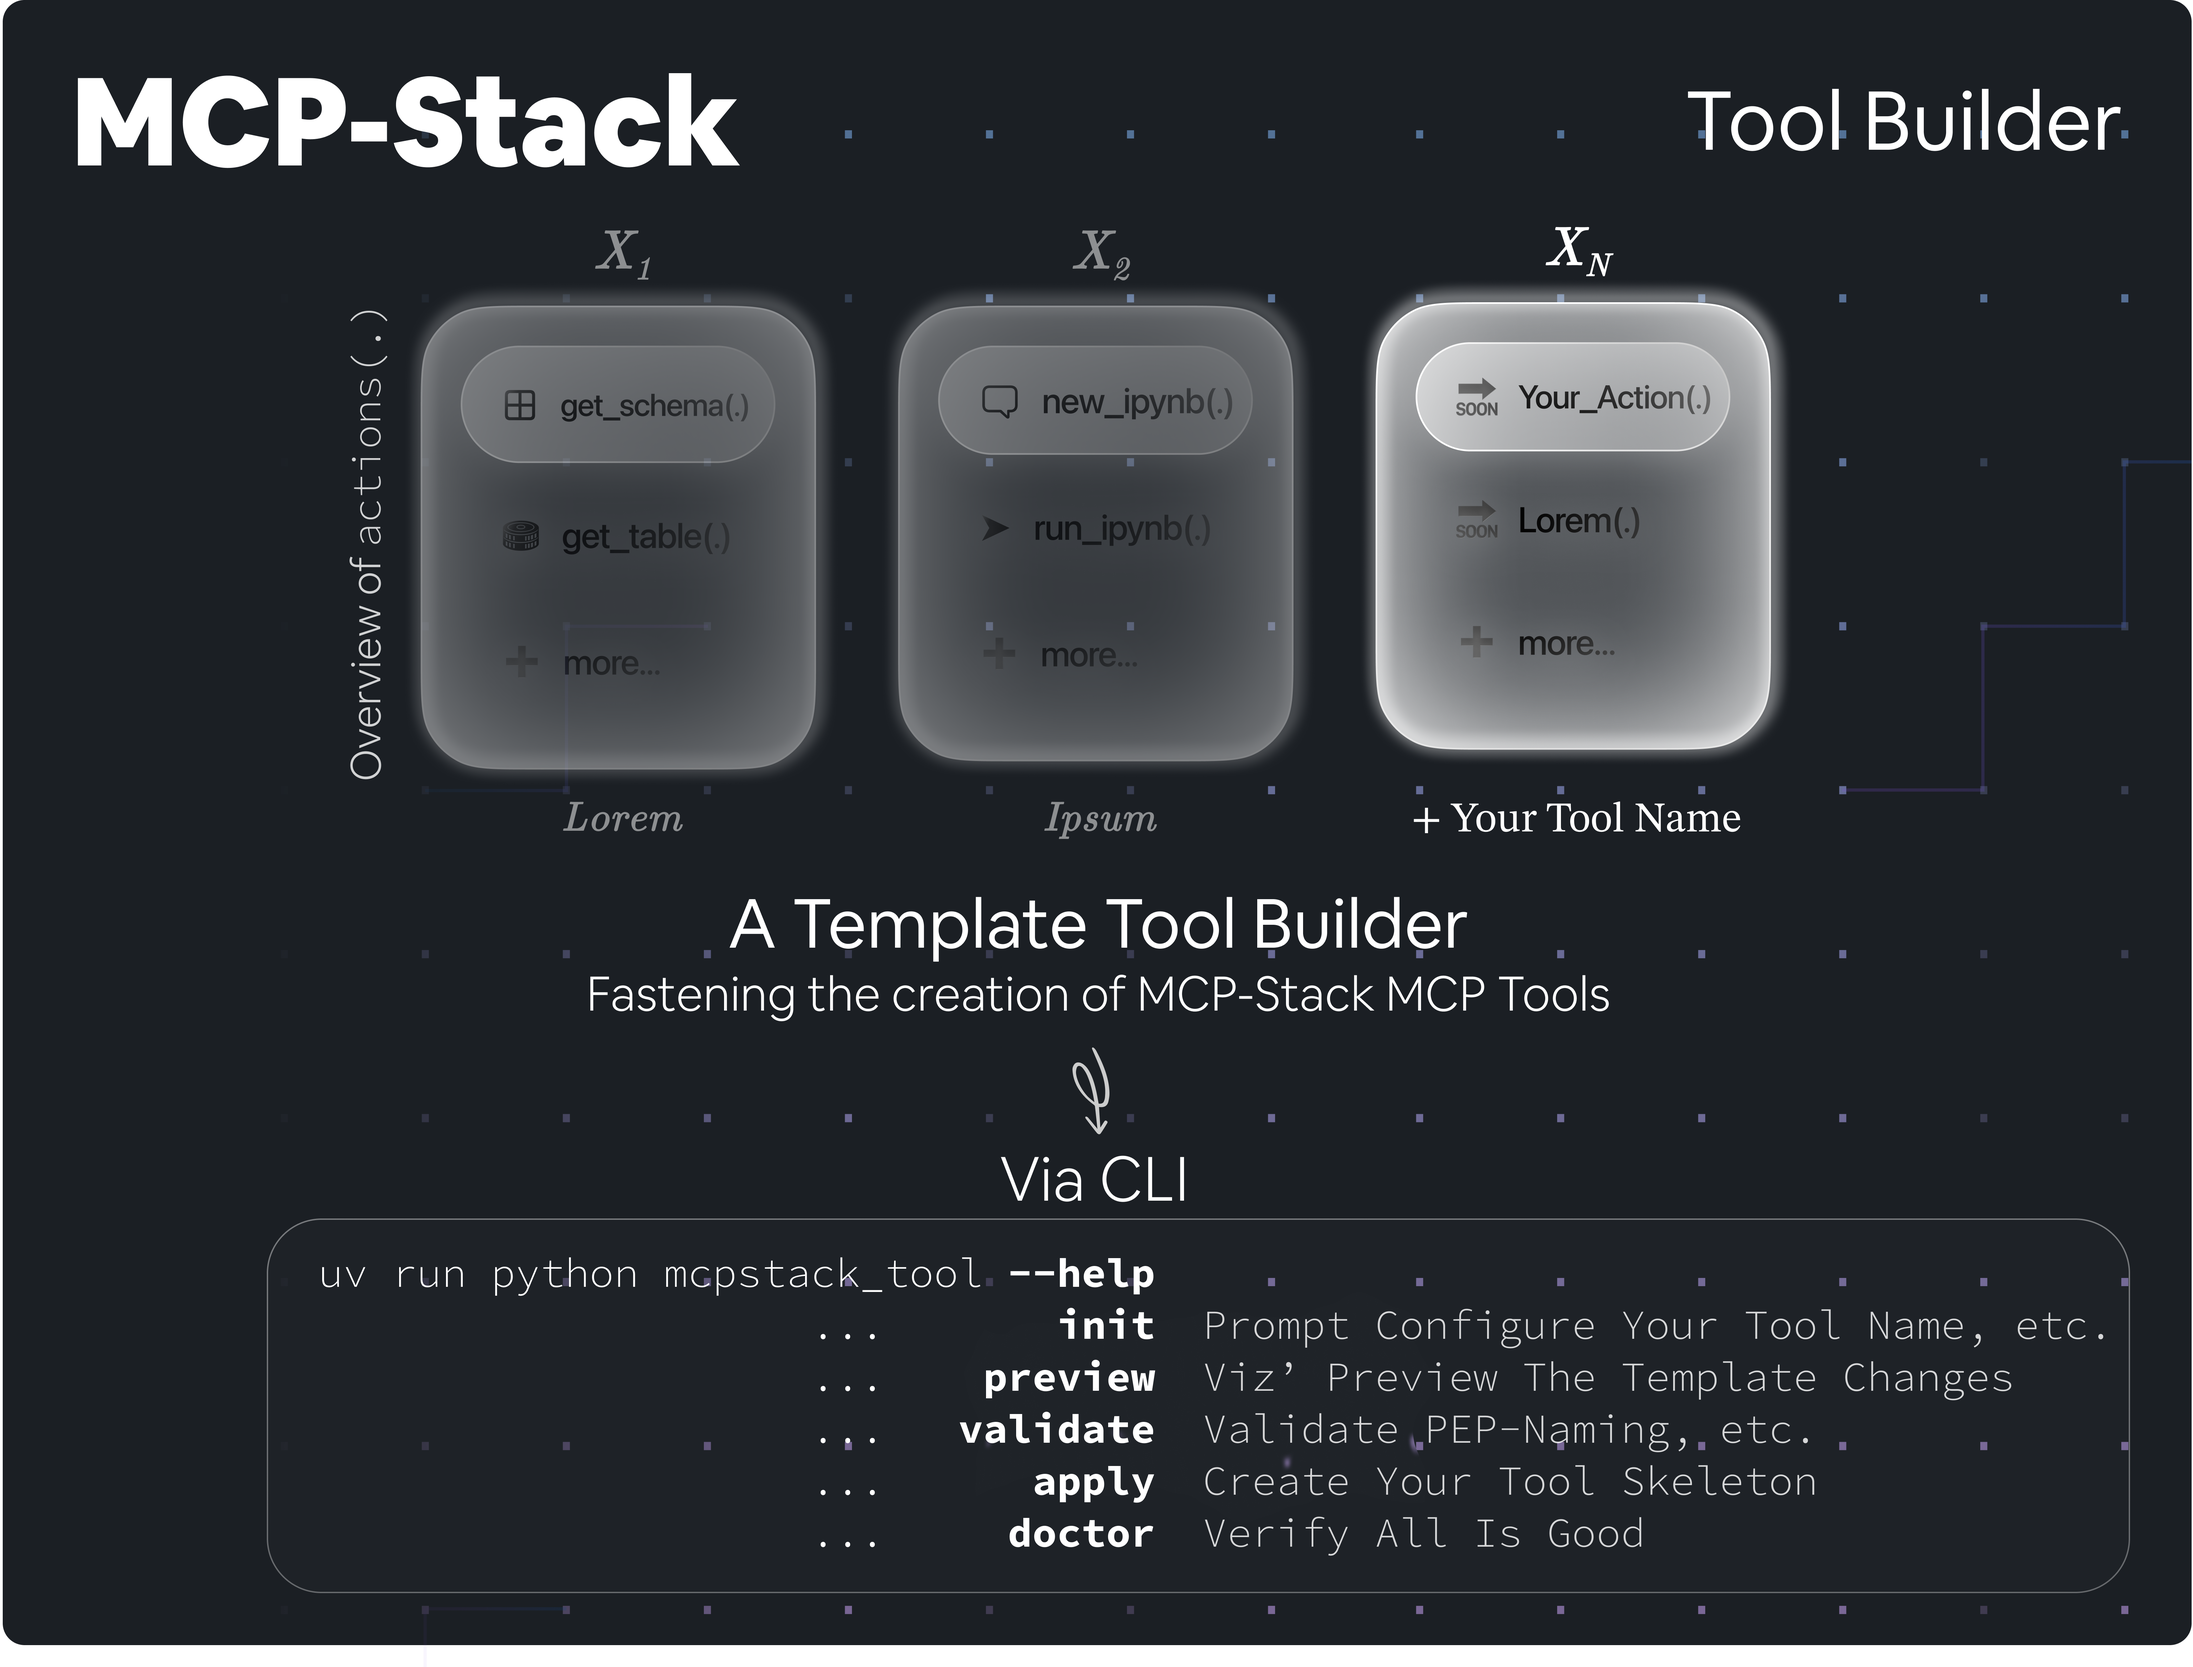
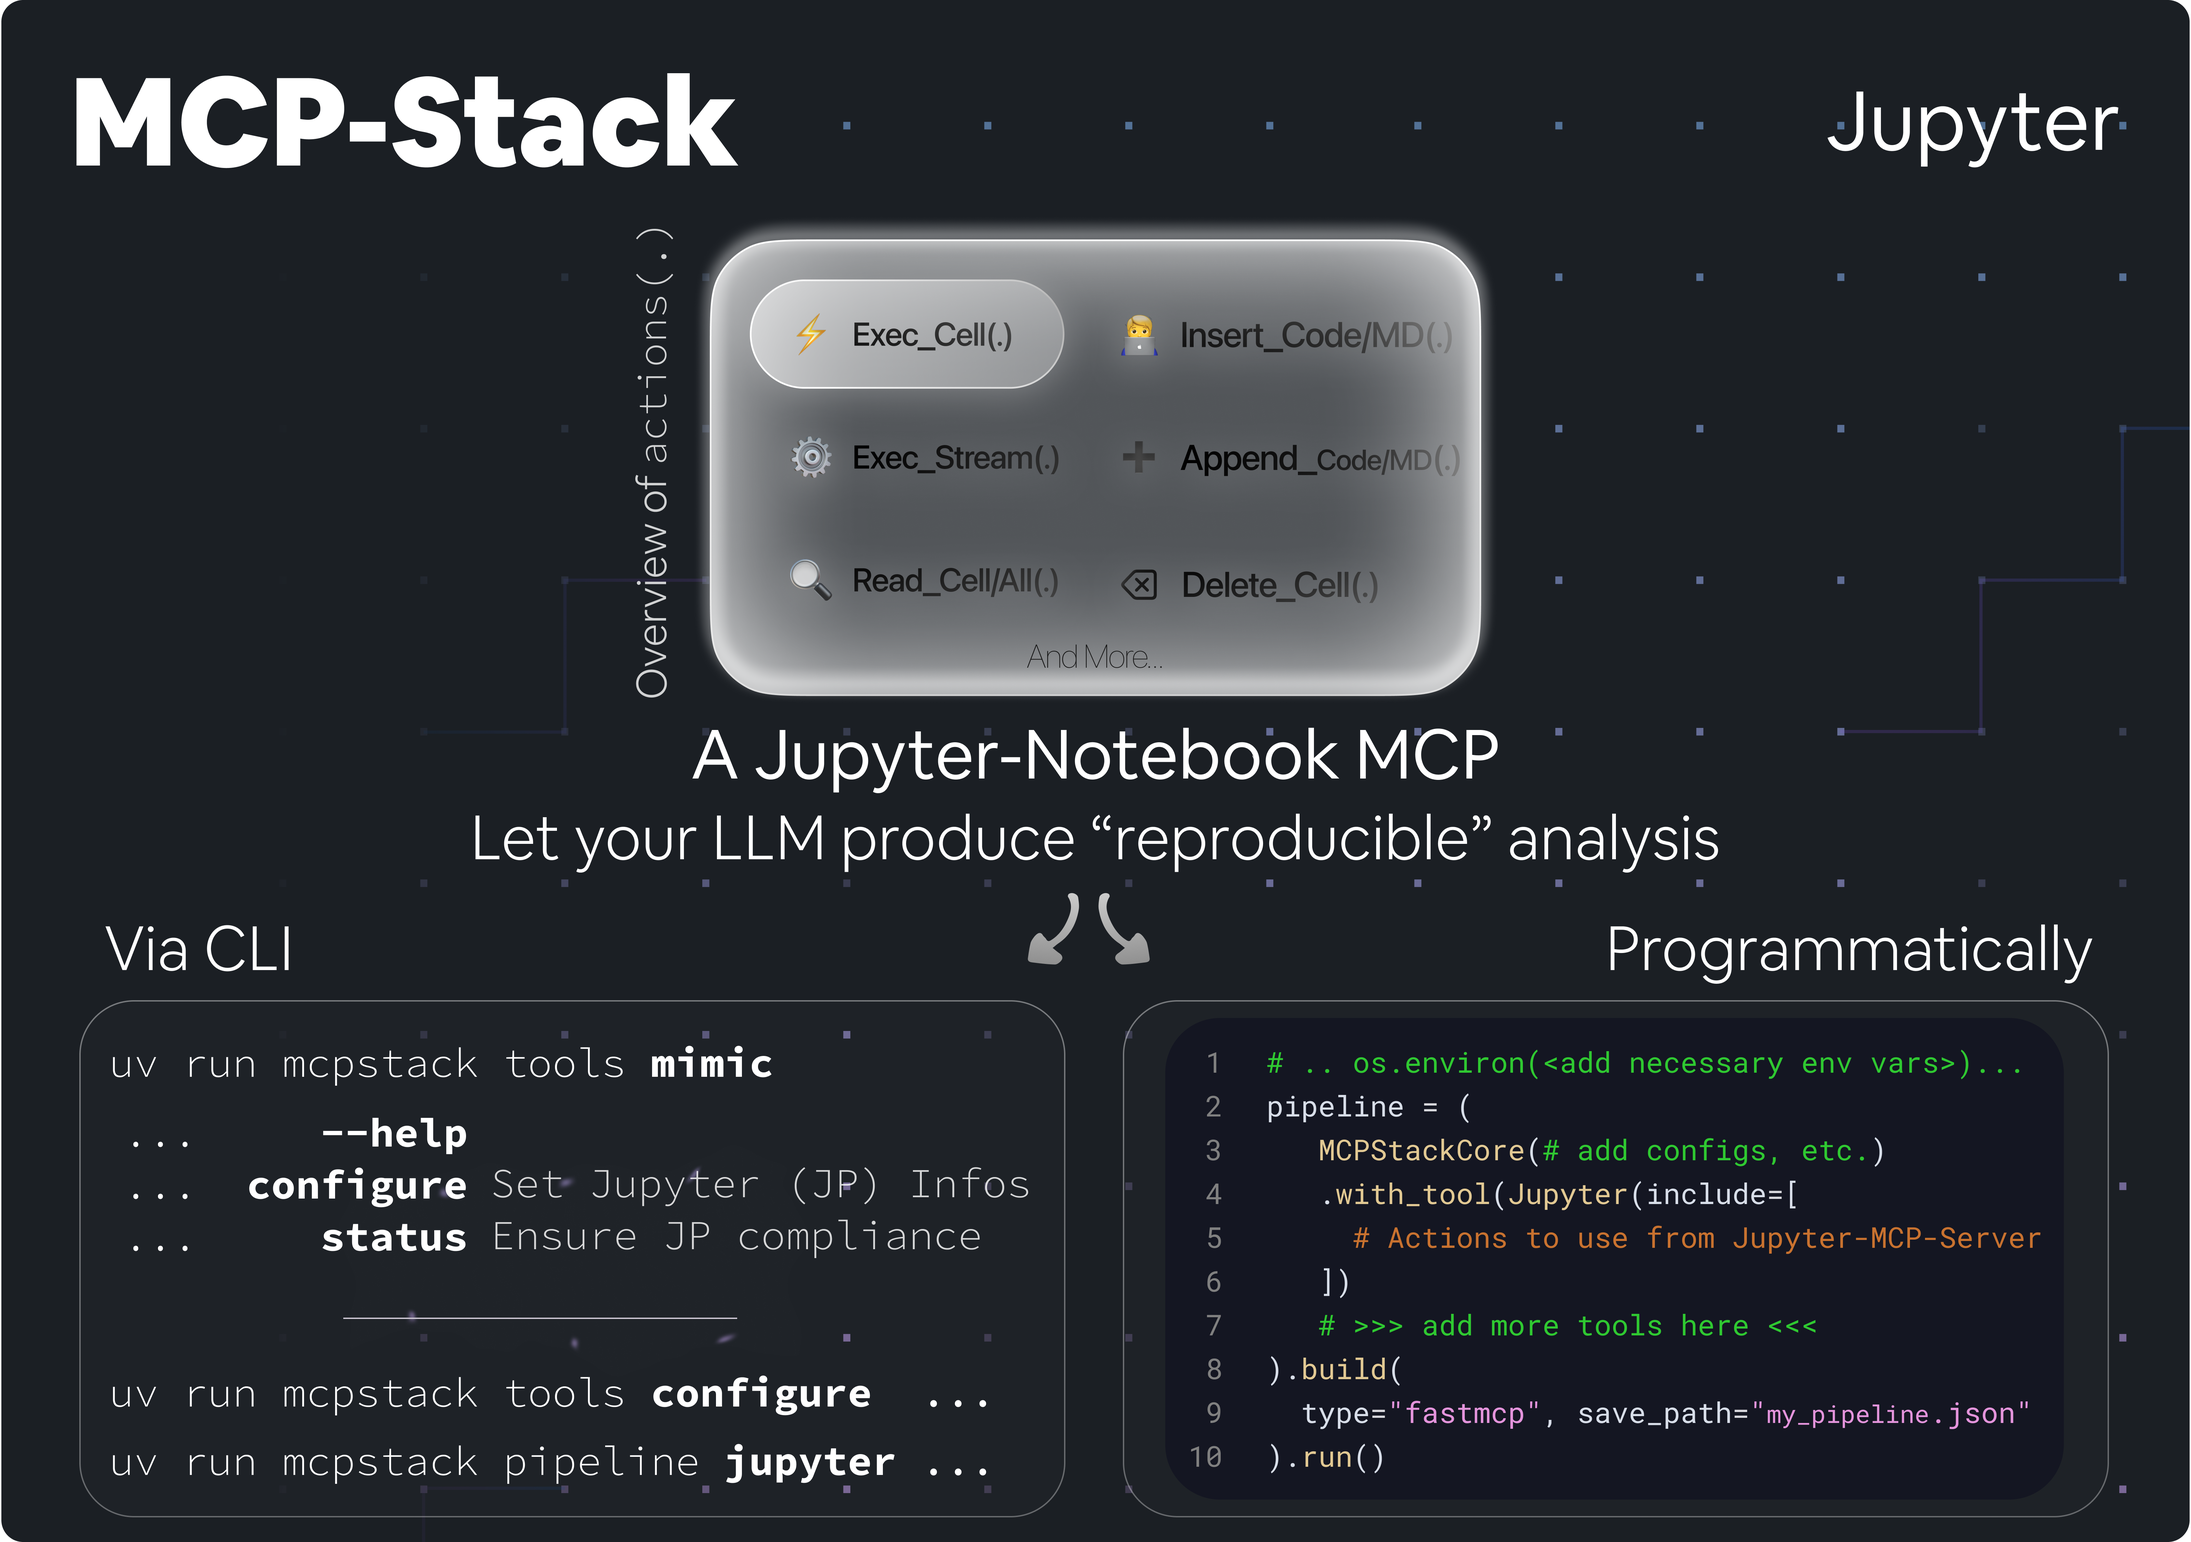
refactor(docs): add readme

diff --git a/README.md b/README.md
@@ -4,10 +4,10 @@
     <br>
     <a href="#"><img src="assets/COVER.png" alt="MCPStack Tool" width="100%"></a>
     <br>
-    MCPStack Tool Builder
+    MCPStack Jupyter MCP
     <br>
   </h1>
-  <h4 align="center">A Template To Fasten The Creation of MCP-Stack MCP Tools</h4>
+  <h4 align="center">Operate Jupyter Notebooks from your favourite LLM</h4>
 </div>
 
 <div align="center">
@@ -16,167 +16,225 @@
   <img alt="pre-commit" src="https://img.shields.io/badge/pre--commit-enabled-1f6feb?style=for-the-badge&logo=pre-commit">
 </a>
 <img alt="ruff" src="https://img.shields.io/badge/Ruff-lint%2Fformat-9C27B0?style=for-the-badge&logo=ruff&logoColor=white">
-<img alt="python" src="https://img.shields.io/badge/Python-3.9%2B-3776AB?style=for-the-badge&logo=python&logoColor=white">
+<img alt="python" src="https://img.shields.io/badge/Python-3.10%2B-3776AB?style=for-the-badge&logo=python&logoColor=white">
 <img alt="license" src="https://img.shields.io/badge/License-MIT-success?style=for-the-badge">
 
 </div>
 
 > [!IMPORTANT]
-> If you have not been across the MCPStack main orchestrator repository, please start
-> there: [View Org](https://github.com/MCP-Pipeline)
+> If you haven’t visited the MCPStack main orchestrator repository yet, please start
+> there: **[MCPStack](https://github.com/MCP-Pipeline/MCPStack)**
 
-## <a id="about-the-project"></a>💡 About The Project
+## 💡 About The MCPStack Jupyter Tool
 
-`MCPStack Tool Builder` is a template repository designed to streamline the creation of `MCPStack` MCP Tools.
-As in, you are using the `MCPStack` main orchestrator repository and wish to create a new MCP tool to pipeline with.
-You can always start from scratch, but certainly, our `MCPStack Tool Builder` will help you get started quickly with a
-solid foundational skeleton builder.
+This repository provides an **MCPStack tool that wraps the official Python Jupyter MCP Server** — it is **not** a novel MCP by itself.
 
-**Wait, what is a Model Context Protocol (MCP) & `MCPStack` — In layman's terms ?**
+- Upstream project: [datalayer/jupyter-mcp-server](https://github.com/datalayer/jupyter-mcp-server)
+- We **reuse their MCP actions** and surface them through **MCPStack**.
+- As the upstream evolves, **some actions / endpoints may deprecate**. Our wrapper is intentionally lightweight, so updating to new upstream versions should be straightforward.  
+  If you hit an incompatibility, **please open an issue** and we’ll track an update to align with the Jupyter MCP Server.
 
-The Model Context Protocol (MCP) standardises interactions with machine learning (Large Language) models,
-enabling tools and libraries to communicate successfully with a uniform workflow.
+### What is MCPStack, in layman’s terms?
 
-On the other hand, `MCPStack` is a framework that implements the protocol, and most importantly, allowing
-developers to create pipelines by stacking MCP tools of interest and launching them all in Claude Desktop.
-This allows the LLM to use all the tools stacked, and of course, if a tool is not of interest, do not include it in the
-pipeline and the LLM won't have access to it.
+The **Model Context Protocol (MCP)** standardises how tools talk to LLMs.  
+`MCPStack` lets you **stack multiple MCP tools together** into a pipeline and expose them to an LLM host (e.g., Claude Desktop).
+
+Think **scikit-learn pipelines, but for LLM tooling**:
+- In scikit-learn: you chain `preprocessors` → `transformers` → `estimators`.
+- In MCPStack: you chain multiple MCP tools (Jupyter, MIMIC, …) and the LLM can use all of them during a conversation.
+
+---
 
 ## Installation
 
-> [!NOTE]
-> As this repository is a template, you can always create a new repository from this template. Use
-> the "Use this template" button on the top right of the GitHub UI to create a new repository based on this template.
+The tool is distributed as a standard Python package. Thanks to entry points, MCPStack will auto-discover it.
 
-Meanwhile, you may alos clone this repository and install it locally to start building your own `MStack` MCP tool.
-
-### Clone the repository
+### Via `uv` (recommended)
 
 ```bash
-git clone https://github.com/MCP-Pipeline/MCPStack-Tool-Builder.git
-cd MCPStack-Tool-Builder
+uv add mcpstack-jupyter
 ```
 
-### Install dependencies
-
-Using `UV` (recommended —— See official [UV documentation for installation of UV](https://uv.dev/docs/)):
+### Via `pip`
 
 ```bash
-uv sync
+pip install mcpstack-jupyter
 ```
 
-Using `pip`:
-
-```bash
-pip install -e .[dev]
-```
-
-### Install pre-commit hooks
-
-Via `UV`:
+### (Dev) Pre-commit hooks
 
 ```bash
 uv run pre-commit install
+# or: pre-commit install
 ```
 
-Via `pip`:
+---
+
+## 🔌 Using With MCPStack
+
+This tool declares entry points so MCPStack can see it automatically:
+
+```toml
+[project.entry-points."mcpstack.tools"]
+jupyter = "mcpstack_jupyter.tools.jupyter.jupyter:Jupyter"
+
+[project.entry-points."mcpstack.tool_clis"]
+jupyter = "mcpstack_jupyter.tools.jupyter.cli:JupyterCLI.get_app"
+```
+
+### 1) Run Jupyter with a Token
+
+You **must** run a Jupyter Server/Lab **with a token** (the same token will be used by both the document and runtime APIs).
 
 ```bash
-pre-commit install
+uv run jupyter lab \
+  --port 8888 \
+  --IdentityProvider.token MY_TOKEN \
+  --ip 0.0.0.0
+
+# MY_TOKEN can for instance be: 1117bf468693444a5608e882ab3b55d511f354a175a0df02
 ```
 
-## Create Your Tool's Skeleton
+> [!NOTE]
+> Docs reference: https://jupyter-mcp-server.datalayer.tech/jupyter/  
 
-Once dependencies are installed, you can use the `mcpstack_tool` CLI to bootstrap and customise your tool’s skeleton.
-Every commands is run with `uv run mcpstack_tool.py` or `python mcpstack_tool.py` if you are not using `UV`, followed by the command you want to run; as follows:
+Make sure to have a notebook open in Jupyter lab, e.g., `notebook.ipynb` or whatever you have defined in the configuration.
 
-<img src="assets/readme/help.gif" width="61.8%" align="left" style="border-radius: 10px;"/>
+### 2) Configure the Jupyter tool (set the token)
 
-### `Help` Banner
-
-Run with `--help` or `-h` to display the banner and see all available commands.
+Use the tool’s CLI to create a small `MCPStack ToolConfig` JSON. **At minimum pass `--token`**:
 
 ```bash
-uv run mcpstack_tool.py --help
+uv run mcpstack tools jupyter configure \
+  --token MY_TOKEN \
+  --output jupyter_config.json
+  
+# MY_TOKEN can for instance be: 1117bf468693444a5608e882ab3b55d511f354a1750df02 (must match the Jupyter server token)
 ```
 
-<br clear="left">
+The CLI has sensible defaults:
 
-<br />
+- `DOCUMENT_URL`: `http://127.0.0.1:8888`
+- `DOCUMENT_ID`: `notebook.ipynb` <-- Feel free to change this to any of your notebooks.
+- `RUNTIME_URL`: defaults to `DOCUMENT_URL`
 
-<img src="assets/readme/init.gif" width="61.8%" align="right" style="border-radius: 10px;"/>
+You can override those if needed:
 
-### `Init`
+```bash
+uv run mcpstack tools jupyter configure \
+  --document-url http://127.0.0.1:8888 \
+  --document-id Untitled.ipynb \
+  --runtime-url  http://127.0.0.1:8888 \
+  --token        1117bf468693444a5608e882ab3b55d511f354a1750df02 \
+  --output       jupyter_config.json
+```
 
-init starts an interactive prompt command-line-based process to generate your tool configuration.
-It will ask you for values like `tool_slug`, `class_name`, and `env_prefix`.
+### 3) Compose a pipeline
 
+Create a new pipeline (or append to an existing one) and include your Jupyter ToolConfig:
 
-<br clear="right">
+```bash
+# New pipeline
+uv run mcpstack pipeline jupyter --new-pipeline my_pipeline.json --tool-config jupyter_config.json
 
-<br />
+# Or append to an existing pipeline
+uv run mcpstack pipeline jupyter --to-pipeline my_pipeline.json --tool-config jupyter_config.json
+```
 
-<img src="assets/readme/preview.gif" width="61.8%" align="left" style="border-radius: 10px;"/>
+### 4) Run it inside Claude Desktop (or your host)
 
-### `Preview`
+```bash
+uv run mcpstack build --pipeline my_pipeline.json --config-type claude
+```
 
-preview shows you the replacements that would be applied across the codebase and displays an example diff.
-Note this could be also run from the `init`.
+Now ask the LLM to operate the notebook. A quick smoke test:
 
-<br clear="left">
+> “Append a code cell that prints `Hello World`.”
 
-<br />
+If everything’s wired correctly, you should see the new cell appear and execute in Jupyter Lab.
 
-<img src="assets/readme/apply.gif" width="61.8%" align="right" style="border-radius: 10px;"/>
+---
 
-### `Apply`
+## ⚙ Configuration — YAML (Developers)
 
-Once happy, use apply to perform replacements and rename the package directory. Note this could be also run from the `init`.
+This tool ships with YAML configs under `src/mcpstack_jupyter/configuration/`:
 
-<br clear="right">
+- `env_defaults.yaml` — defaults for provider/URLs/IDs and a `require_tokens` flag (we keep tokens **required**).
+- `tools.yaml` — the list of upstream actions we expose by default. Adjust here as upstream evolves.
+- `cli_defaults.yaml` — prompt labels and default output filename for the CLI.
 
-<br />
+You can tweak those YAML files to change defaults globally without touching code.
+Tokens remain **required** and are enforced upfront by MCPStack when building the tool.
 
-<img src="assets/readme/validate.gif" width="61.8%" align="left" style="border-radius: 10px;"/>
+---
 
-### `Validate`
+## 📖 Programmatic API
 
-Run validate to ensure placeholders were replaced correctly (or to check if any remain).
+Use the `Jupyter` tool class directly in a pipeline.  
+Tokens are taken from the environment (the pipeline config or your process env):
 
-<br clear="left">
+```python
+import os
+from mcpstack_jupyter.tools.jupyter.jupyter import Jupyter
+from MCPStack.stack import MCPStackCore
 
-<br />
+# Provide tokens via environment (same token for both is fine)
+# On the long term we could think passing a StackConfig to the Jupyter tool instance, with all the necessary env vars. Open An Issue.
+os.environ["DOCUMENT_TOKEN"] = "1117bf468693444a5608e882ab3b55d511f354a175a0df02"
+os.environ["RUNTIME_TOKEN"]  = "1117bf468693444a5608e882ab3b55d511f354a175a0df02"
 
-<img src="assets/readme/reset.gif" width="61.8%" align="right" style="border-radius: 10px;"/>
+pipeline = (
+    MCPStackCore()
+    .with_tool(Jupyter(include=None))  # or provide a subset of actions of interest.
+    # Add more tools as needed, e.g., MIMIC, etc.
+    # .with_tool(MIMIC(...))
+    .build(type="fastmcp", save_path="my_jupyter_pipeline.json")
+    .run()
+)
+```
 
-### `Reset` (Optional)
+>[!NOTE]
+> Common upstream actions you can expose (see `configuration/tools.yaml`):
+> 
+> - `append_markdown_cell`, 
+> - `insert_markdown_cell`, 
+> - `overwrite_cell_source`, 
+> - `delete_cell`
+> - `append_execute_code_cell`, 
+> - `insert_execute_code_cell`
+> - `execute_cell_with_progress`, 
+> - `execute_cell_simple_timeout`, 
+> - `execute_cell_streaming`
+> - `read_cell`, 
+> - `read_all_cells`, 
+> - `get_notebook_info`
 
-Need to start fresh? Restore everything back from the scaffold with reset.
+---
 
-> [!CAUTION]
-> ⚠ Use --hard to overwrite files directly.
+## 🧰 Troubleshooting
 
-<br clear="right">
+- **403 Forbidden / `_xsrf` missing / cannot create kernels**  
+  Ensure you ran Jupyter with a token and that your `ToolConfig` provides **both** `DOCUMENT_TOKEN` and `RUNTIME_TOKEN`.  
+  In most setups it’s the same token.
 
-<br />
+- **404 on `notebook.ipynb`**  
+  Update `--document-id` to the actual notebook path relative to Jupyter’s working directory (e.g., `Untitled.ipynb` or `notebooks/analysis.ipynb`).
 
-<img src="assets/readme/doctor.gif" width="61.8%" align="left" style="border-radius: 10px;"/>
+- **Nothing happens in Lab**  
+  Prefer `http://127.0.0.1:8888` over `http://localhost:8888`.  
+  Confirm your pipeline is running and that the tool is listed in `mcpstack list-tools`.
 
-### `Doctor`
+---
 
-Finally, check the health of your repository with doctor.
-It reports `package dirs`, `entry points`, and `placeholder` status.
+## 🤝 Upstream Compatibility & Support
 
-<br />
-<br />
-<br />
+As noted, this is a **lightweight wrapper** over the upstream Jupyter MCP Server
+(`github.com/datalayer/jupyter-mcp-server`). If the upstream API changes,
+we’ll happily track it — **please open an issue** with details of the version and failing action.
 
-Here you go! 🎉 You now have a working `MCPStack` tool skeleton ready to customise.
-From here, edit `src/mcpstack_<your_tool_name>/tool.py` with the actions your MCP is aimed to be doing,
-and `cli.py` to implement your configurability logic. Remove a couple of files and folders not necessary as per the template
-and you may be good to go to submit this to the org or to play with it yourself!
+See more in [the official Jupyter MCP Server documentation](https://jupyter-mcp-server.datalayer.tech/).
 
-Refer to the `MCPStack` documentation for more details on how to implement your tool logic.
+---
 
 ## 🔐 License
 
